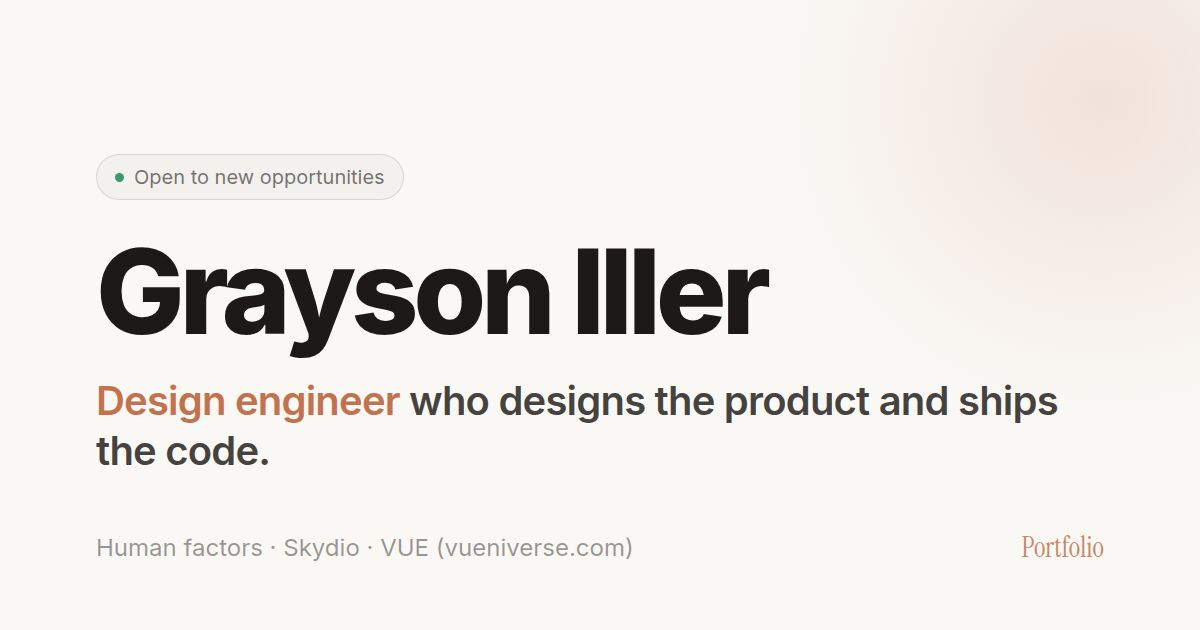
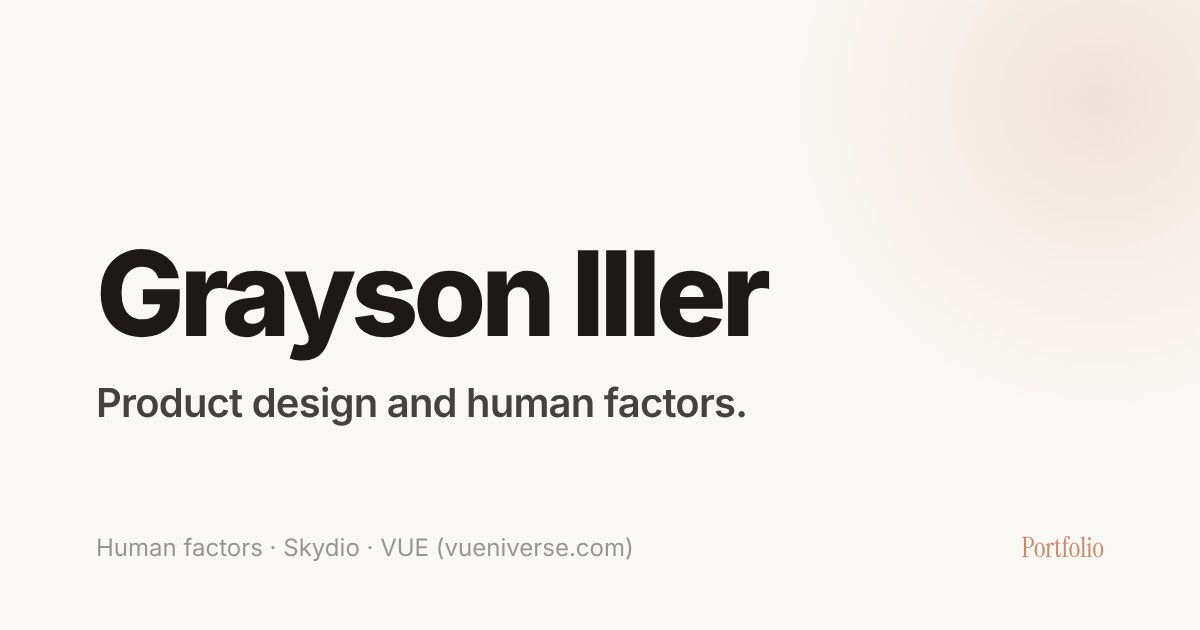
Handoff 3: remove pairing card and placeholders, fix research entries, new OG image and meta
Claude-Session: https://claude.ai/code/session_01Fd6D2njoy2BUhXCfbw8dFs

diff --git a/components/CaseStudySkydio.tsx b/components/CaseStudySkydio.tsx
@@ -13,14 +13,6 @@ function Card({ title, caption, children, tag }: { title: string; caption?: stri
   );
 }
 
-function ImageSlot({ label }: { label: string }) {
-  return (
-    <div className="flex aspect-[16/10] w-full items-center justify-center rounded-xl border border-dashed border-ink/20 bg-ink-50 text-center text-[12px] text-ink/40" role="img" aria-label={label}>
-      <span className="px-4">{label}</span>
-    </div>
-  );
-}
-
 function ConnectionDiagram() {
   const node = (x: number, label: string, sub: string, hot?: boolean) => (
     <g>
@@ -96,7 +88,7 @@ export default function CaseStudySkydio() {
             <Card
               tag="Case study 1"
               title="Connection state"
-              caption="The link between controller and drone has more than two states, but parts of the UI only showed two. I found and documented the cases where the screen showed a drone as on or connected when it was off, unpaired, or out of reach, including one where an offline drone could still be selected to fly. Each one was filed with repro steps and closed. The connection state model itself belongs to the wireless team. My part was showing where the interface didn't reflect it."
+              caption="The link between controller and drone has more than two states, but parts of the UI only showed two. I found and documented the cases where the screen showed a drone as on or connected when it was off, unpaired, or out of reach. Each one was filed with repro steps and closed. The connection state model itself belongs to the wireless team. My part was showing where the interface didn't reflect it."
             >
               <ConnectionDiagram />
             </Card>
@@ -105,58 +97,12 @@ export default function CaseStudySkydio() {
           {/* 4d: warnings under stress */}
           <Reveal delay={0.05}>
             <Card
-              tag="Case study 3"
+              tag="Case study 2"
               title="Warnings under stress"
-              caption="When the controller detects strong radio interference it disables some buttons and warns the pilot. I documented exactly how that alert behaves in flight: when it appears, when it clears, and what happens after it's dismissed. I also tracked down cases where it fired with no radio nearby. A warning that cries wolf teaches people to ignore it."
+              caption="When the controller detects strong radio interference it disables some buttons and warns the pilot. I documented exactly how that alert behaves in flight: when it appears, when it clears, and what happens after it's dismissed. I also raised how often it could fire for operators who work next to radios all day. A warning that cries wolf teaches people to ignore it."
             />
           </Reveal>
         </div>
-
-        {/* 4b: pairing redesign, the design piece, most room */}
-        <Reveal delay={0.08}>
-          <div className="surface mt-4 p-6 sm:p-8">
-            <div className="flex flex-wrap items-baseline justify-between gap-2">
-              <p className="text-[10px] uppercase tracking-[0.16em] text-accent">Case study 2 · Self-initiated concept, not shipped work</p>
-            </div>
-            <h3 className="mt-2 text-2xl font-semibold tracking-tight text-ink">Redesigning the pairing success and failure states</h3>
-
-            <div className="mt-6 grid gap-6 lg:grid-cols-5">
-              <div className="space-y-5 lg:col-span-2">
-                <div>
-                  <p className="text-[11px] uppercase tracking-[0.14em] text-ink/40">Problem</p>
-                  <p className="mt-1.5 text-[0.95rem] leading-relaxed text-ink/65">
-                    Pairing a drone ends in one of two unclear places. On success,
-                    nothing clearly says it worked. On failure, the message reads
-                    &ldquo;Unable to connect to drone&rdquo;, which sends operators
-                    troubleshooting the wrong thing.
-                  </p>
-                </div>
-                <div>
-                  <p className="text-[11px] uppercase tracking-[0.14em] text-ink/40">Evidence</p>
-                  <p className="mt-1.5 text-[0.95rem] leading-relaxed text-ink/65">
-                    I filed both problems in July 2026 while testing the pairing flow. Neither has been picked up yet, so I redesigned them myself.
-                  </p>
-                </div>
-                <div>
-                  <p className="text-[11px] uppercase tracking-[0.14em] text-ink/40">Why</p>
-                  <p className="mt-1.5 text-[0.95rem] leading-relaxed text-ink/65">
-                    [PLACEHOLDER: 2 to 3 sentences on the decisions, written after the Figma work]
-                  </p>
-                </div>
-              </div>
-              <div className="grid gap-4 sm:grid-cols-2 lg:col-span-3">
-                <div>
-                  <p className="mb-2 text-[11px] uppercase tracking-[0.14em] text-ink/40">Before</p>
-                  <ImageSlot label="[PLACEHOLDER: Figma export, before]" />
-                </div>
-                <div>
-                  <p className="mb-2 text-[11px] uppercase tracking-[0.14em] text-accent">After</p>
-                  <ImageSlot label="[PLACEHOLDER: Figma export, after]" />
-                </div>
-              </div>
-            </div>
-          </div>
-        </Reveal>
 
         {/* 4c: journey, option A, past tense */}
         <Reveal delay={0.1}>
@@ -174,9 +120,7 @@ export default function CaseStudySkydio() {
               I built the controller test suite in the order an operator meets
               the product: unbox and pair, pre-flight, launch, mission,
               interrupt and recover, return and review. Written that way, the
-              gaps between steps are visible. When the suite was later
-              restructured by feature, I measured what it cost: full regression
-              went from about 3.5 weeks to over 4.
+              gaps between steps are visible.
             </p>
           </div>
         </Reveal>
@@ -184,6 +128,11 @@ export default function CaseStudySkydio() {
         <Reveal delay={0.12}>
           <p className="mt-6 text-[0.9rem] text-ink/45">
             Alongside this I lead controller release validation and manage one direct report.
+          </p>
+        </Reveal>
+        <Reveal delay={0.14}>
+          <p className="mt-3 text-[0.9rem] text-ink/45">
+            Two full case studies with real product screens are shared privately: a second camera feed on Controller 2&apos;s large screen, and unifying controller onboarding.
           </p>
         </Reveal>
       </div>

diff --git a/scripts/og.html b/scripts/og.html
@@ -1,14 +1,14 @@
 <!doctype html>
-<!-- Source for public/og.png. Regenerate: install @fontsource/inter + @fontsource/instrument-serif, fix font paths, screenshot at 1200x630. -->
+<!-- Source for public/og.jpg. Regenerate: install @fontsource/inter + @fontsource/instrument-serif, fix font paths, screenshot at 1200x630. -->
 <html>
 <head>
 <meta charset="utf-8">
 <style>
-  @font-face { font-family: 'Inter'; font-weight: 400; src: url('../node_modules-fonts/@fontsource/inter/files/inter-latin-400-normal.woff2') format('woff2'); }
-  @font-face { font-family: 'Inter'; font-weight: 500; src: url('../node_modules-fonts/@fontsource/inter/files/inter-latin-500-normal.woff2') format('woff2'); }
-  @font-face { font-family: 'Inter'; font-weight: 600; src: url('../node_modules-fonts/@fontsource/inter/files/inter-latin-600-normal.woff2') format('woff2'); }
-  @font-face { font-family: 'Inter'; font-weight: 800; src: url('../node_modules-fonts/@fontsource/inter/files/inter-latin-800-normal.woff2') format('woff2'); }
-  @font-face { font-family: 'Instrument Serif'; font-weight: 400; src: url('../node_modules-fonts/@fontsource/instrument-serif/files/instrument-serif-latin-400-normal.woff2') format('woff2'); }
+  @font-face { font-family: 'Inter'; font-weight: 400; src: url('../node_modules-fonts/node_modules/@fontsource/inter/files/inter-latin-400-normal.woff2') format('woff2'); }
+  @font-face { font-family: 'Inter'; font-weight: 500; src: url('../node_modules-fonts/node_modules/@fontsource/inter/files/inter-latin-500-normal.woff2') format('woff2'); }
+  @font-face { font-family: 'Inter'; font-weight: 600; src: url('../node_modules-fonts/node_modules/@fontsource/inter/files/inter-latin-600-normal.woff2') format('woff2'); }
+  @font-face { font-family: 'Inter'; font-weight: 800; src: url('../node_modules-fonts/node_modules/@fontsource/inter/files/inter-latin-800-normal.woff2') format('woff2'); }
+  @font-face { font-family: 'Instrument Serif'; font-weight: 400; src: url('../node_modules-fonts/node_modules/@fontsource/instrument-serif/files/instrument-serif-latin-400-normal.woff2') format('woff2'); }
   * { margin: 0; padding: 0; box-sizing: border-box; }
   body {
     width: 1200px; height: 630px;
@@ -45,9 +45,8 @@
 <body>
   <div class="glow"></div>
   <div class="wrap">
-    <div class="badge"><span class="dot"></span>Open to new opportunities</div>
     <h1>Grayson Iller</h1>
-    <p class="sub"><span class="accent">Design engineer</span> who designs the product and ships the code.</p>
+    <p class="sub">Product design and human factors.</p>
   </div>
   <div class="foot">
     <span>Human factors &middot; Skydio &middot; VUE (vueniverse.com)</span>

diff --git a/components/CaseStudyVue.tsx b/components/CaseStudyVue.tsx
@@ -30,7 +30,7 @@ export default function CaseStudyVue() {
         </div>
         <Reveal delay={0.1}>
           <p className="mt-5 max-w-2xl text-lg leading-relaxed text-ink/60">
-            Scrapers pull 23,000+ products a day into one recency-ordered feed.
+            Scrapers track 23,000+ products in one recency-ordered feed.
             Live in production, real users, affiliate revenue. I write the spec
             and the design first. Then I build with AI tooling in the loop,
             which lets one person prototype, ship, and test changes in days.
@@ -49,8 +49,8 @@ export default function CaseStudyVue() {
           <div className="surface mt-12 p-6 sm:p-8">
             <p className="text-[11px] uppercase tracking-[0.16em] text-accent">The decision</p>
             <h3 className="mt-2 text-2xl font-semibold tracking-tight text-ink">I tore down the sign-up wall because the data said to</h3>
-            <div className="mt-6 grid gap-6 lg:grid-cols-5">
-              <div className="lg:col-span-2">
+            <div className="mt-6 max-w-xl">
+              <div>
                 <p className="text-[11px] uppercase tracking-[0.14em] text-ink/40">What I saw</p>
                 <div className="mt-2 grid grid-cols-2 gap-4">
                   <div>
@@ -68,14 +68,6 @@ export default function CaseStudyVue() {
                   account ask moves to the first follow or save, then runs that
                   action the instant you&apos;re in. Three auth screens became one.
                 </p>
-                <p className="mt-5 text-[11px] uppercase tracking-[0.14em] text-ink/40">Result</p>
-                <p className="mt-1.5 text-[0.95rem] leading-relaxed text-ink/60">[PLACEHOLDER: result number, if I have one]</p>
-              </div>
-              <div className="lg:col-span-3">
-                <p className="mb-2 text-[11px] uppercase tracking-[0.14em] text-ink/40">Process</p>
-                <div className="flex aspect-[16/9] w-full items-center justify-center rounded-xl border border-dashed border-ink/20 bg-ink-50 text-center text-[12px] text-ink/40" role="img" aria-label="Placeholder for Figma process images">
-                  <span className="px-4">[PLACEHOLDER: Figma flows or early iterations]</span>
-                </div>
               </div>
             </div>
             <p className="mt-6 text-[12px] leading-relaxed text-ink/40">

diff --git a/app/layout.tsx b/app/layout.tsx
@@ -22,12 +22,10 @@ export const metadata: Metadata = {
   metadataBase: new URL(siteUrl),
   title: "Grayson Iller · Product Design, Human Factors",
   description:
-    "Product designer with a human factors background. Three years validating the Skydio controller in the field, and VUE, a fashion feed designed in Figma and built solo.",
+    "Design portfolio of Grayson Iller. Human factors training, three years on the Skydio controller, and VUE, a fashion feed designed in Figma and built solo.",
   keywords: [
     "Grayson Iller",
     "Product Designer",
-    "Product Designer",
-    "Front-end Engineer",
     "Human Factors",
     "Skydio",
     "VUE",
@@ -38,7 +36,7 @@ export const metadata: Metadata = {
   openGraph: {
     title: "Grayson Iller · Product Design, Human Factors",
     description:
-      "Design engineer at the seam of product design and front-end systems. Creator of VUE (vueniverse.com).",
+      "Design portfolio of Grayson Iller. Human factors training, three years on the Skydio controller, and VUE, a fashion feed designed in Figma and built solo.",
     url: siteUrl,
     siteName: "Grayson Iller",
     type: "website",
@@ -47,7 +45,7 @@ export const metadata: Metadata = {
         url: "/og.jpg",
         width: 1200,
         height: 630,
-        alt: "Grayson Iller: design engineer who designs the product and ships the code.",
+        alt: "Grayson Iller: product design and human factors portfolio.",
       },
     ],
   },
@@ -55,7 +53,7 @@ export const metadata: Metadata = {
     card: "summary_large_image",
     title: "Grayson Iller · Product Design, Human Factors",
     description:
-      "Design engineer at the seam of product design and front-end systems. Creator of VUE.",
+      "Design portfolio of Grayson Iller. Human factors training, three years on the Skydio controller, and VUE, a fashion feed designed in Figma and built solo.",
     images: ["/og.jpg"],
   },
   icons: {

diff --git a/components/AlsoSection.tsx b/components/AlsoSection.tsx
@@ -3,13 +3,13 @@ import Reveal from "./Reveal";
 const papers = [
   {
     title: "Pilot-in-the-loop technology for moon landings",
-    venue: "IAF / IAA Space Life Sciences Symposium, 2022",
-    what: "Fatigue analysis and predictive fatigue models on Android, for crews landing on the Moon. Co-author.",
+    venue: "73rd International Astronautical Congress · IAF/IAA Space Life Sciences Symposium, 2022",
+    what: "A multi-sensory cueing system, including haptic cues on the torso, to keep a pilot oriented and ready to take manual control during a lunar landing. Co-author.",
   },
   {
     title: "The Link Between Spatial Disorientation in Flight and Mild Hypoxia",
-    venue: "Reno Aerospace Medicine Convention, 2021",
-    what: "Built and tested VR tools to study how pilots lose orientation when oxygen drops. Co-author.",
+    venue: "Embry-Riddle Student Research Symposium, 2021",
+    what: "Tested whether mild hypoxia makes pilots more prone to spatial disorientation, using a rotating-chair illusion at simulated altitude. Lead presenter.",
   },
 ];
 

diff --git a/components/About.tsx b/components/About.tsx
@@ -2,9 +2,9 @@ import Reveal from "./Reveal";
 
 const stats = [
   { n: "2022", l: "at Skydio since", d: "intern on mobile UI/UX, full-time since 2023" },
-  { n: "129", l: "UI and UX issues filed on the controller", d: "83 closed, counted by title, so it undercounts" },
+  { n: "129", l: "UI and UX issues filed since 2022", d: "83 closed" },
   { n: "100+", l: "brands on VUE", d: "designed and built solo" },
-  { n: "2", l: "published papers", d: "lunar landing, spatial disorientation" },
+  { n: "2", l: "research presentations", d: "lunar landing, spatial disorientation" },
 ];
 
 export default function About() {

diff --git a/components/Contact.tsx b/components/Contact.tsx
@@ -55,7 +55,7 @@ export default function Contact() {
         </Reveal>
         <Reveal delay={0.1}>
           <p className="mt-5 max-w-prose text-lg text-ink/55">
-            Want to talk design? Based in {site.location}. Email is fastest.
+            Based in {site.location}. Email is fastest.
           </p>
         </Reveal>
 

diff --git a/app/page.tsx b/app/page.tsx
@@ -12,7 +12,7 @@ const jsonLd = {
   "@context": "https://schema.org",
   "@type": "Person",
   name: site.name,
-  jobTitle: "Product Designer, Human Factors",
+  jobTitle: "Flight Test Engineer Lead",
   address: {
     "@type": "PostalPlace",
     addressLocality: "Redwood City",
